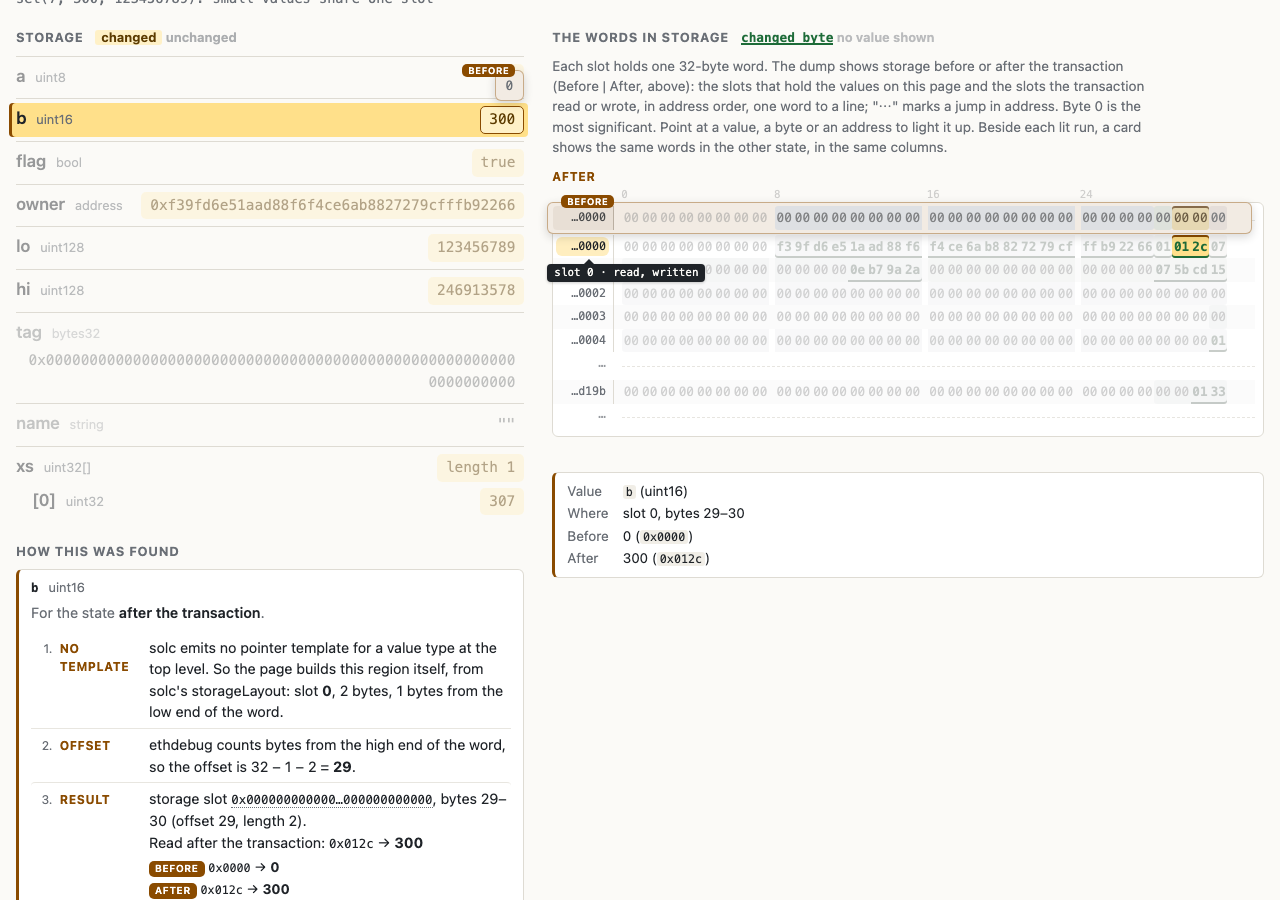
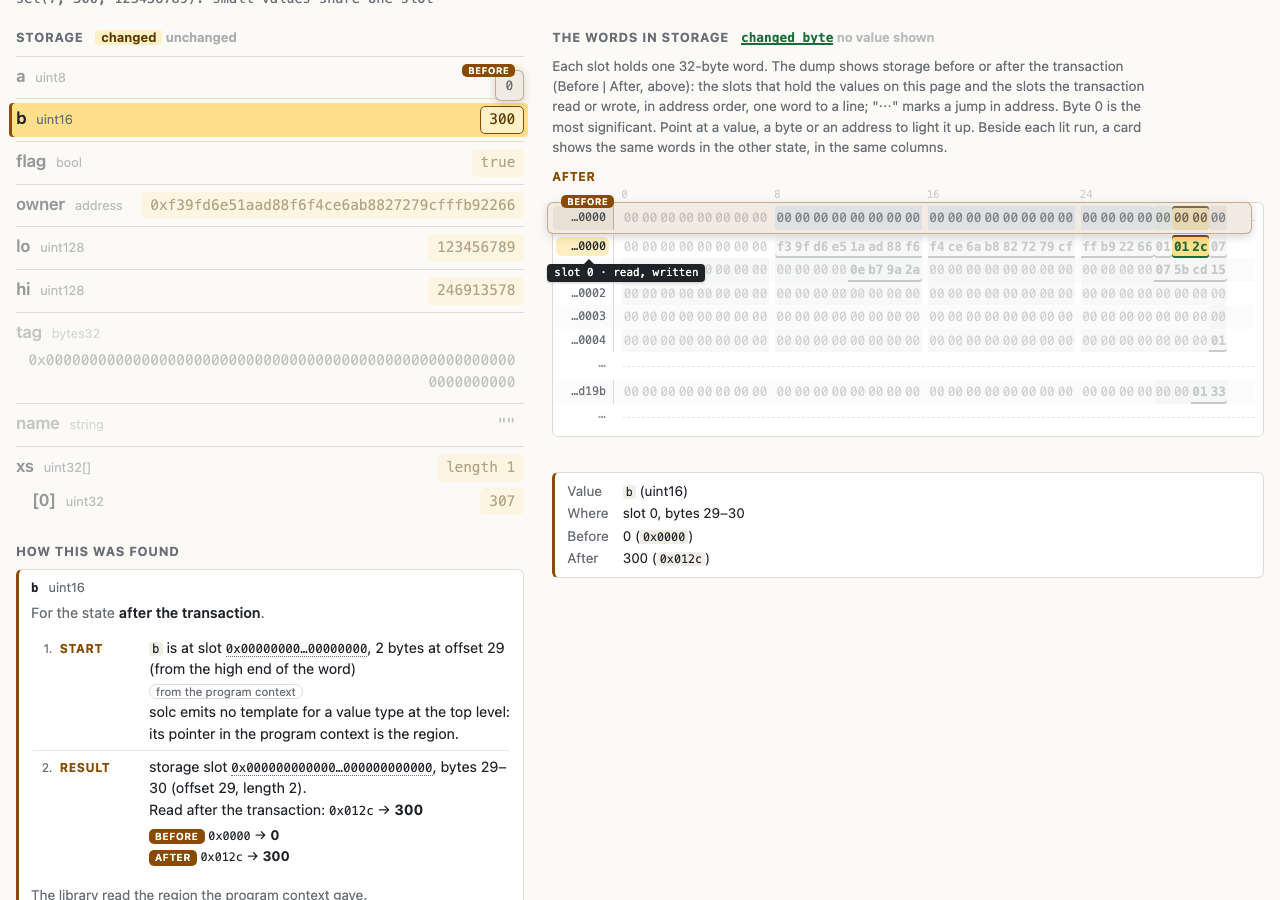
Inspector: base slots from the program context, no storageLayout

Changed region(s): [[0.0312, 0.7156, 0.4062, 1.0]]

diff --git a/demos/inspector/decode.js b/demos/inspector/decode.js
@@ -97,10 +97,16 @@ export function touchedSlots(steps) {
 
 // --------------------------------------------------------------- types
 
-// storageLayout type name -> ethdebug type id, e.g.
-// t_mapping(t_address,t_uint256) -> t_mapping$_t_address_$_t_uint256_$
-export const typeIdOf = (layoutType) =>
-  layoutType.replace(/\(/g, "$_").replace(/,/g, "_$_").replace(/\)/g, "_$");
+// A state variable's base slot, from its pointer in the program-level
+// context: a region's `slot`, or the `slot` a template is given
+export const baseSlot = (variable) => {
+  const p = variable.pointer;
+  return word(BigInt(p.slot ?? p.define?.slot));
+};
+const inStorage = (variable) => {
+  const p = variable.pointer;
+  return p.location === "storage" || p.define?.slot !== undefined;
+};
 
 const resolve = (type, types) =>
   type.kind === "alias" ? resolve(types[type.contains.type.id], types) : type;
@@ -368,26 +374,29 @@ const join = (prefix, n) => (prefix ? `${prefix}-${n}` : n);
 const memberRegion = (m) => (m.startsWith("$") ? "_" + m : m);
 
 // Decode one contract's storage in one state. `keys` is mappingKeys().
+// The state variables, with each one's base slot, offset and type, come
+// from the program-level context (`contract.variables`).
 // Returns a list of nodes:
 //   { label, path, type, value?: { text, hex, region, how }, children? }
 export async function decodeStorage(contract, state, keys) {
-  const { layout, types, pointers: templates } = contract;
+  const { types, pointers: templates } = contract;
   const nodes = [];
-  for (const variable of layout.storage) {
-    const typeId = typeIdOf(variable.type);
+  for (const variable of contract.variables.filter(inStorage)) {
+    const label = variable.identifier;
+    const typeId = variable.type.id;
     const type = types[typeId];
-    const base = word(BigInt(variable.slot));
-    const node = { label: variable.label, path: variable.label, typeId };
+    const base = baseSlot(variable);
+    const node = { label, path: label, typeId };
     if (!type) {
-      node.note = `no ethdebug type for ${variable.type}`;
+      node.note = `no ethdebug type ${typeId}`;
     } else if (isValue(resolve(type, types))) {
-      node.value = await layoutValue(contract, state, variable, type);
+      node.value = await contextValue(contract, state, variable, type);
     } else if (type.kind === "mapping") {
       node.children = await walkMapping(
-        contract, state, keys, typeId, base, variable.label, variable,
+        contract, state, keys, typeId, base, label, variable,
       );
     } else {
-      const origin = { variable: variable.label, slot: base };
+      const origin = { variable: label, slot: base };
       const scope = await instantiate(
         { define: { slot: base }, in: { template: typeId } },
         state, templates, origin,
@@ -399,14 +408,18 @@ export async function decodeStorage(contract, state, keys) {
   return nodes;
 }
 
-// Value types have no template; build the region from storageLayout.
-async function layoutValue(contract, state, variable, type) {
-  const size = Number(contract.layout.types[variable.type].numberOfBytes);
+// A value type has no template: its pointer in the program-level context
+// is the region. With no offset, the value starts at byte 0; with no
+// length, it fills the word.
+async function contextValue(contract, state, variable, type) {
+  const p = variable.pointer;
+  const offset = Number(p.offset ?? 0);
+  const length = Number(p.length ?? 32);
   const region = {
     location: "storage",
-    slot: word(BigInt(variable.slot)),
-    offset: "0x" + (32 - variable.offset - size).toString(16),
-    length: "0x" + size.toString(16),
+    slot: baseSlot(variable),
+    offset: "0x" + offset.toString(16),
+    length: "0x" + length.toString(16),
   };
   const cursor = await dereference(region, { state });
   const view = await cursor.view(state);
@@ -416,12 +429,8 @@ async function layoutValue(contract, state, variable, type) {
     hex: bytes.toHex(),
     region: regionJson(view.regions[0]),
     how: {
-      layout: {
-        slot: variable.slot,
-        offset: variable.offset,
-        size,
-        type: variable.type,
-      },
+      context: { variable: variable.identifier, pointer: p,
+        slot: region.slot, offset, length },
     },
   };
 }
@@ -496,7 +505,7 @@ async function walkMapping(
       ? decodeValue(keyType, Data.fromHex(key), types)
       : decodeValue(keyType, Data.fromHex(key).resizeTo(32), types);
     const p = `${path}[${keyText}]`;
-    const origin = { variable: variable.label, slot: base, key };
+    const origin = { variable: variable.identifier, slot: base, key };
     const scope = await instantiate(
       { define: { slot: base, key }, in: { template: typeId } },
       state, templates, origin,

diff --git a/companion/index.html b/companion/index.html
@@ -122,11 +122,10 @@ TypeScript reference library, finds each value's bytes from the
 values itself, with its own small decoder for each type: a stand-in
 for the format's planned interpretation layer (see
 <a href="#placement">Placement, interpretation, resolution</a>). The
-contracts are compiled
-with a solc build from an open pull request, argotorg/solidity #16990.
-The page lists what is not done yet: each variable's base
-slot still comes from solc's older <code>storageLayout</code> output,
-and it lists the other gaps at the bottom.</p>
+contracts are compiled with Walnut's next solc stage, open on their fork
+(walnuthq/solidity #10). Each variable's base slot comes from the
+program context it writes, so the page needs no <code>storageLayout</code>.
+The page lists the remaining gaps at the bottom.</p>
 <p class="demo-link"><a href="../demos/inspector/">Open the storage inspector</a></p>
 <figure>
   <img src="../demos/inspector/screenshots/desktop-packed.png"
@@ -440,7 +439,8 @@ is:</p>
 <h4>Walkthrough</h4>
 <ol>
   <li>To read <code>accounts[k]</code>, a tool sets <code>slot = 0</code>
-  (from <code>storageLayout</code> today) and <code>key = k</code>, and
+  (from the program context, or <code>storageLayout</code> on released
+  solc) and <code>key = k</code>, and
   evaluates the mapping template.</li>
   <li>The template redefines <code>slot</code> as the keccak256 hash of
   the key and the old slot, each as a 32-byte word. That is the entry's
@@ -646,9 +646,10 @@ change. Vyper does not emit ethdebug; we wrote this from its rule.
 <ul>
   <li><strong>No sub-byte addressing.</strong> Offsets and lengths are
   whole bytes. Solidity packs whole bytes, so solc is not affected.</li>
-  <li><strong>Base slots still come from storageLayout</strong> on the
+  <li><strong>Base slots come from storageLayout</strong> on the
   #16990 build, and value types have no template. Walnut's next stage
-  fixes both <span class="tag plan">plan</span>.</li>
+  (walnuthq/solidity #10) fixes both; the storage inspector uses it
+  <span class="tag plan">plan</span>.</li>
   <li><strong>Nested mappings need chaining by hand.</strong> The outer
   template yields only the inner mapping's slot. A tool must look up the
   inner template itself.</li>
@@ -786,7 +787,7 @@ support, one stage at a time, in public pull requests.</p>
 <tr><td>Explicit settings (#16961)</td><td>Merged, on the development branch</td><td>Nothing new in the output. Selecting ethdebug output now also requires <code>ethdebug</code> and <code>ast-id</code> in <code>debugInfo</code>.</td></tr>
 <tr><td>Types and storage templates (#16990)</td><td>Open, in review, CI green</td><td>Type documents, and one pointer template per composite storage type. <span class="tag plan">plan</span></td></tr>
 <tr><td>Schema test cleanup (#17055)</td><td>Open</td><td>Tests only.</td></tr>
-<tr><td>Every state variable (walnuthq/solidity #5)</td><td>Open on Walnut's fork of solc; not yet proposed upstream. We built it and ran it.</td><td>Every state variable and immutable listed as data: name, declaration, type and pointer. No <code>storageLayout</code> needed to find the bytes; showing values still needs the format's interpretation layer (<a href="#placement">above</a>). <span class="tag plan">plan</span></td></tr>
+<tr><td>Every state variable (walnuthq/solidity #5, and #7–#10 on top)</td><td>Open on Walnut's fork of solc; not yet proposed upstream. We built #10 and ran it: its slots and offsets match <code>storageLayout</code> for every variable we tested, and soldb (pull request #181) reads state through it.</td><td>Every state variable and immutable listed as data: name, declaration, type and pointer. No <code>storageLayout</code> needed to find the bytes; showing values still needs the format's interpretation layer (<a href="#placement">above</a>). <span class="tag plan">plan</span></td></tr>
 <tr><td>Design and Yul sidecar (#16954, and the design page #16780)</td><td>#16780 merged (docs); #16954 a draft</td><td>The design for later stages, including local variables and the optimizer rules above.</td></tr>
 <tr><td>Local variables</td><td>Designed; no pull request yet</td><td>Pointers for variables in memory and on the stack. <span class="tag plan">plan</span></td></tr>
 <tr><td>Function call markers</td><td>In no plan we found</td><td><code>invoke</code> and <code>return</code>.</td></tr>

diff --git a/demos/inspector/main.js b/demos/inspector/main.js
@@ -272,8 +272,8 @@ function renderHow() {
   const whose = `<p class="howside">For the state <b>${WHEN[side]}</b>.` +
     `${same ? " The same steps find the same bytes in both states." : ""}` +
     "</p>";
-  const note = v.how.layout
-    ? "The library read the region the page gave it."
+  const note = v.how.context
+    ? "The library read the region the program context gave."
     : "The library's dereference() returned these regions and read " +
       "them. The steps above replay the same template with the " +
       "library's evaluator; they agree.";
@@ -290,23 +290,20 @@ function items(node, v, side) {
   const linked = (region) => ` data-region="${esc(JSON.stringify(region))}"` +
     ` data-side="${side}" tabindex="0"`;
   const out = [];
-  if (v.how.layout) {
-    const { slot, offset, size } = v.how.layout;
-    out.push({ key: "layout", eval: "",
-      html: `<li><span class="k">No template</span>
-      solc emits no pointer template for a value type at
-      the top level. So the page builds this region itself, from solc's
-      storageLayout: slot <b>${esc(slot)}</b>, ${size} bytes, ${offset}
-      bytes from the low end of the word.</li>` });
-    out.push({ key: "offset", eval: "", html: `<li><span class="k">Offset</span>
-      ethdebug counts bytes from the high end of the word, so the
-      offset is 32 − ${offset} − ${size} = <b>${32 - offset - size}</b>.
-      </li>` });
+  if (v.how.context) {
+    const { variable, slot, offset, length } = v.how.context;
+    out.push({ key: "context", eval: "",
+      html: `<li><span class="k">Start</span>
+      <code>${esc(variable)}</code> is at slot ${hex(slot)}, ${length}
+      bytes at offset ${offset} (from the high end of the word)
+      <span class="tag">from the program context</span><br>
+      solc emits no template for a value type at the top level: its
+      pointer in the program context is the region.</li>` });
   } else {
     const { origin } = v.how;
     out.push({ key: "start", eval: "", html: `<li><span class="k">Start</span>
       <code>${esc(origin.variable)}</code> starts at slot
-      ${hex(origin.slot)} <span class="tag">from storageLayout</span>
+      ${hex(origin.slot)} <span class="tag">from the program context</span>
       ${origin.key ? `<br>Key ${hex(origin.key)}: this transaction hashed
       it with that slot <span class="tag">from the trace</span>` : ""}
       </li>` });
@@ -724,7 +721,8 @@ async function main() {
   }
   const f0 = loaded[shown[0].id].f;
   $("meta").innerHTML += ` Compiled with solc ${esc(
-    f0.contract.compiler.split("+")[0])} (PR #16990 build).`;
+    f0.contract.compiler.split("+")[0])} (Walnut's fork, ` +
+    "walnuthq/solidity PR #10).";
   // Back to what the URL hash says, if it still makes sense
   const h = initialHash;
   const ex = shown.find((x) => x.id === h.get("ex") ||

diff --git a/demos/inspector/index.html b/demos/inspector/index.html
@@ -20,8 +20,10 @@ templates by ethdebug's reference library.">
     Solidity name, before and after, and marks what changed. Click any
     value, changed or not, to see how it was found.</p>
     <p>Decoded by ethdebug's reference library from solc's ethdebug
-    pointer templates (solc PR #16990 preview build); base slots still
-    come from solc's storageLayout today.</p>
+    output (a preview build of Walnut's solc fork, walnuthq/solidity
+    PR #10). Each variable's base slot, offset and type come from the
+    program context; the rules for mappings, structs, arrays and strings
+    come from the pointer templates in the resources.</p>
     <p class="meta" id="meta"></p>
     <p class="appendix-nav">Part of the ethdebug post appendix, with
     <a href="../../companion/">ethdebug in depth</a> and
@@ -83,13 +85,6 @@ templates by ethdebug's reference library.">
   <section class="notes" aria-label="Notes">
     <h2>What is not done yet</h2>
     <ul>
-      <li><b>Base slots.</b> solc PR #16990 emits a template for each
-      type, but not where each variable starts. The page takes each
-      variable's first slot from solc's storageLayout output.</li>
-      <li><b>Value types.</b> solc emits no template for a top-level
-      value such as a <code>uint256</code>. For these, the page builds
-      the region itself from storageLayout. Such values say so under
-      "How this was found".</li>
       <li><b>Mapping keys.</b> A mapping does not list its keys. The page
       shows only the keys this transaction hashed (read from the
       KECCAK256 inputs in its trace). Other entries exist but are not

diff --git a/demos/inspector/panel.js b/demos/inspector/panel.js
@@ -9,7 +9,7 @@ const esc = (s) =>
     ({ "&": "&amp;", "<": "&lt;", ">": "&gt;", '"': "&quot;" })[c]);
 const num = (h) => BigInt(h === undefined || h === "0x" ? 0 : h);
 const word = (n) => "0x" + n.toString(16).padStart(64, "0");
-import { typeName } from "./decode.js";
+import { baseSlot, typeName } from "./decode.js";
 
 const SIDES = ["before", "after"];
 const TINTS = 5;
@@ -135,10 +135,12 @@ export function buildPanel(f, tree) {
   }
   [...read, ...written].forEach(addSlot);
 
-  const bases = new Map(); // slot number -> variables, from storageLayout
-  for (const v of f.contract.layout.storage) {
-    const k = BigInt(v.slot);
-    bases.set(k, [...(bases.get(k) ?? []), v.label]);
+  // slot number -> variables, from the program-level context
+  const bases = new Map();
+  for (const v of f.contract.variables) {
+    if (v.pointer.location === "code") continue;
+    const k = BigInt(baseSlot(v));
+    bases.set(k, [...(bases.get(k) ?? []), v.identifier]);
   }
 
   // Address order, as storage is laid out: slot numbers ascending, so a

diff --git a/demos/inspector/README.md b/demos/inspector/README.md
@@ -7,8 +7,10 @@ was found: the template solc wrote, each expression evaluated, and the
 final regions.
 
 Values are decoded by `@ethdebug/pointers` (ethdebug's reference
-TypeScript library) from solc's ethdebug pointer templates. This page
-does not use soldb.
+TypeScript library) from the ethdebug output of Walnut's solc fork
+(walnuthq/solidity PR #10): each state variable's base slot, offset and
+type from the program context, and the rules for non-value types from
+the pointer templates. This page does not use soldb.
 
 Serve the repo root over HTTP and open `demos/inspector/`. The page needs no
 node: everything comes from `fixtures/`.
@@ -41,12 +43,18 @@ node: everything comes from `fixtures/`.
 
 ## How the fixtures were made
 
-1. `anvil --steps-tracing --port 8547 --silent`
-2. `RPC_URL=http://127.0.0.1:8547 node bin/make-fixtures.mjs`. It compiles each contract with the solc
-   PR #16990 build (`soljson-pr16990.js`, reports
-   `0.8.38-ci.2026.10.1+commit.b3b7db6a`) with viaIR, optimizer off,
+1. `anvil --steps-tracing --port 8548 --silent`
+2. `SOLC=<solc> RPC_URL=http://127.0.0.1:8548 node
+   bin/make-fixtures.mjs`. `<solc>` is a native solc built from Walnut's
+   fork, walnuthq/solidity PR #10 (head `c434b2ea`, reports
+   `0.8.38-develop.2026.10.5+commit.c434b2ea`); without `SOLC`, the
+   script runs `solc` from your PATH. It
+   compiles each contract with `--standard-json`, viaIR, optimizer off,
    `experimental: true`, `debug.debugInfo: ["ethdebug", "ast-id"]`, and
-   output `ethdebug.resources`, `storageLayout`, bytecode and the AST.
+   outputs `ethdebug.resources` and `ethdebug.compilation` (together
+   they give the global `ethdebug.resources`),
+   `evm.deployedBytecode.ethdebug` (the program, with the program-level
+   context), bytecode and the AST. No storageLayout.
 3. Transactions (from anvil account 0):
    - Token: deploy with supply 1000; `transfer(0x7099…79C8, 25)`.
    - Shop: deploy; `place("widget", 5, 3)` (fixture made, not shown;
@@ -69,8 +77,9 @@ node: everything comes from `fixtures/`.
      (block), from `eth_getStorageAt`, plus every slot the trace
      touched. The script checks that the first SLOAD and last SSTORE of
      each slot agree with the node.
-   - the source, storageLayout, ethdebug `resources` (types, pointers),
-     and state variable source ranges from the AST.
+   - the source, the program-level context's `variables` (one per
+     state variable: name, pointer, type id), ethdebug `resources`
+     (types, pointers), and state variable source ranges from the AST.
 
 Cross-check before anvil stopped: `cast storage` on the Token at
 `keccak256(sender . 0)` gave `0x…03cf` (975) and the next slot `0x…01`
@@ -80,21 +89,24 @@ decoded values against the values the calls wrote.
 
 ## Which data is ethdebug, which is not
 
-From ethdebug (`resources`, emitted by solc #16990):
+From ethdebug (emitted by Walnut's solc fork, walnuthq/solidity #10):
 
-- types: kinds, bit widths, struct members, enum values, and
+- state variables (the program-level context, `context.variables` of
+  the deployed code's program): for each one, its name, its type id,
+  and a pointer. A value type's pointer is its region (slot, and for a
+  value narrower than the word its offset and length, counted from the
+  high end of the word); with no offset it starts at byte 0, and with no
+  length it fills the word. A mapping's pointer is its base slot; a string's or dynamic
+  array's gives the base slot to its type's template.
+- types (`resources`): kinds, bit widths, struct members, enum values, and
   `definition.location` (used to mark a struct in the source).
-- pointer templates: the rule for each non-value type (mapping, struct,
-  dynamic array, string), with slot arithmetic, keccak256, packed
-  offsets and lengths, and the short/long string condition.
+- pointer templates (`resources`): the rule for each non-value type
+  (mapping, struct, dynamic array, string), with slot arithmetic,
+  keccak256, packed offsets and lengths, and the short/long string
+  condition.
 
 Not from ethdebug:
 
-- base slots of state variables: storageLayout.
-- regions for top-level value types (`totalSupply`, `a`, `owner`, …):
-  built by the page from storageLayout (slot, offset, size), then read by
-  the library. storageLayout counts offsets from the low end of the
-  word; ethdebug counts from the high end, so offset = 32 − offset − size.
 - mapping keys: from KECCAK256 inputs in the trace.
 - variable declarations marked in the source: solc's AST.
 
@@ -263,9 +275,6 @@ is imported from the package's dist (it is not a public export).
 
 ## Known gaps (also on the page)
 
-- Base slots come from storageLayout; #16990 does not emit them.
-- Value types have no template; the page builds their region from
-  storageLayout.
 - Only mapping keys hashed in the transaction are shown.
 - Nested mappings need chaining templates (one per level); not done.
   These contracts have none.
